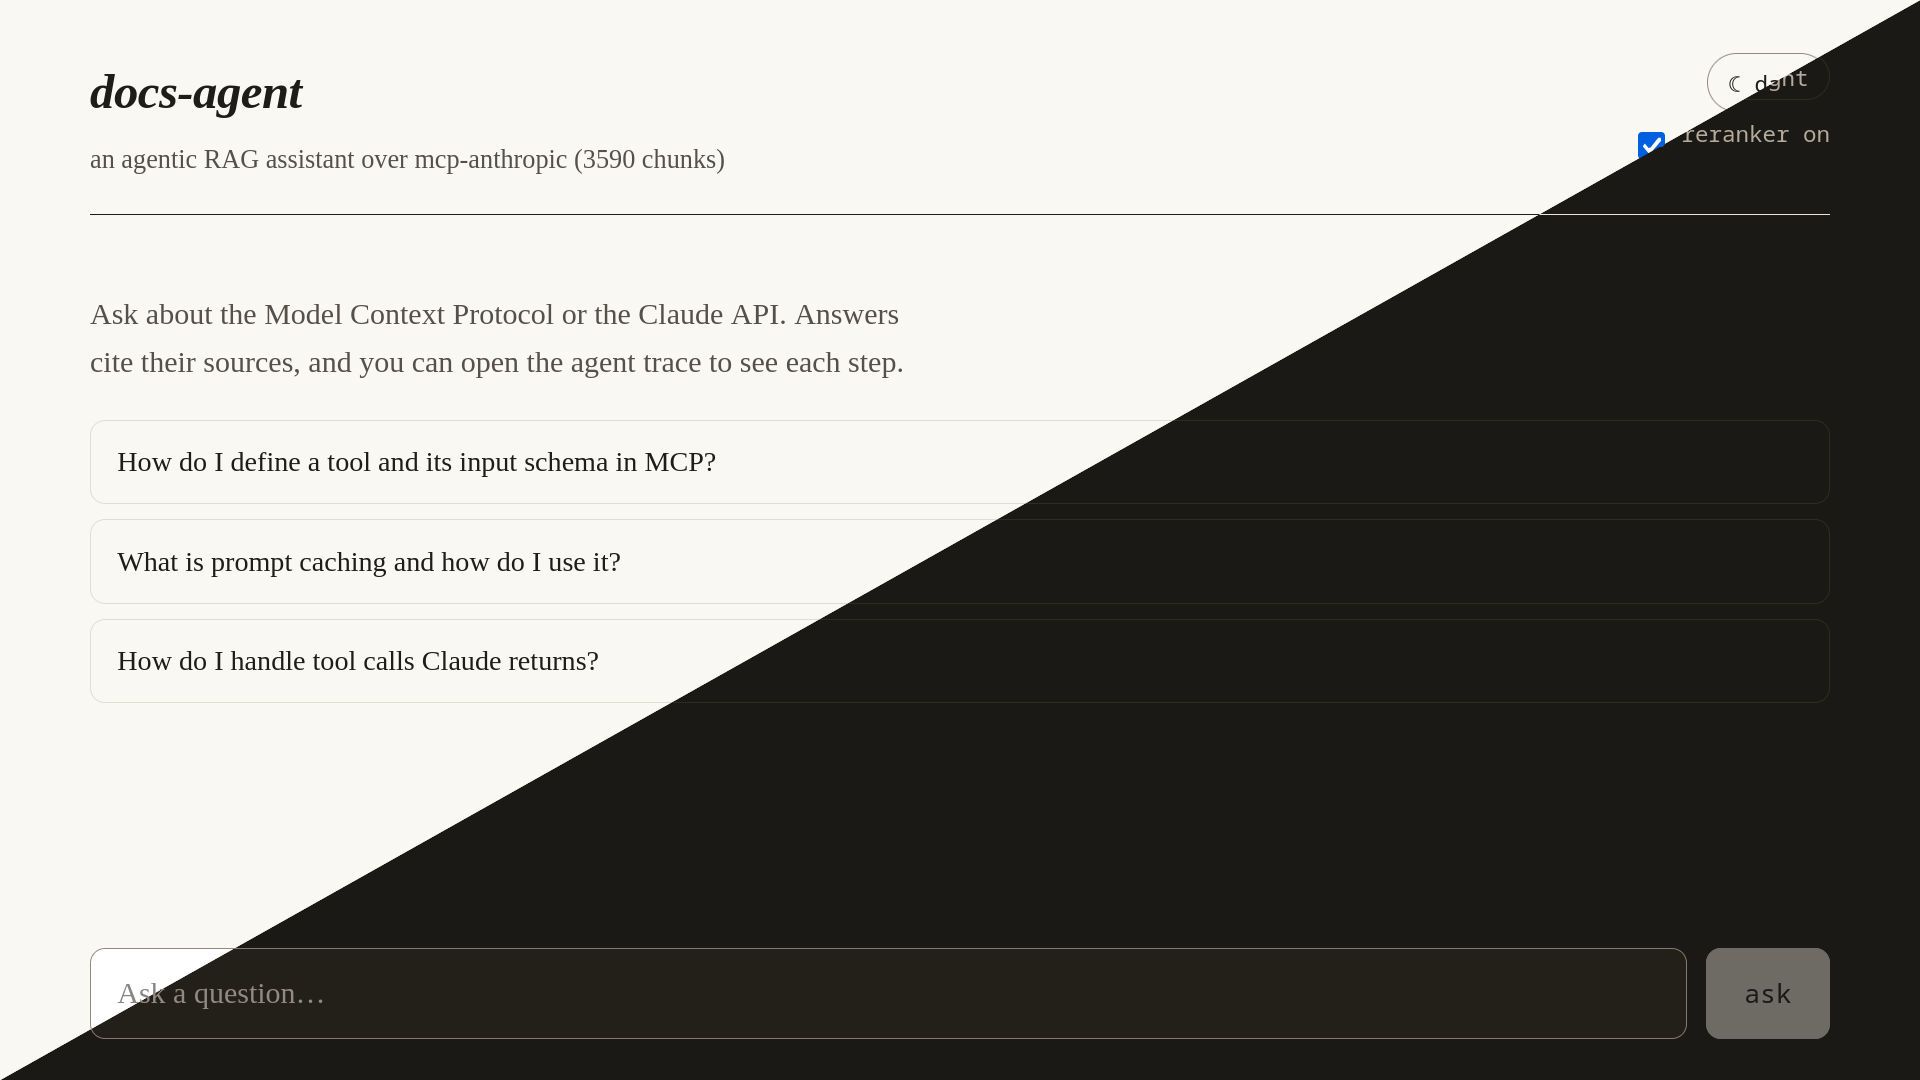
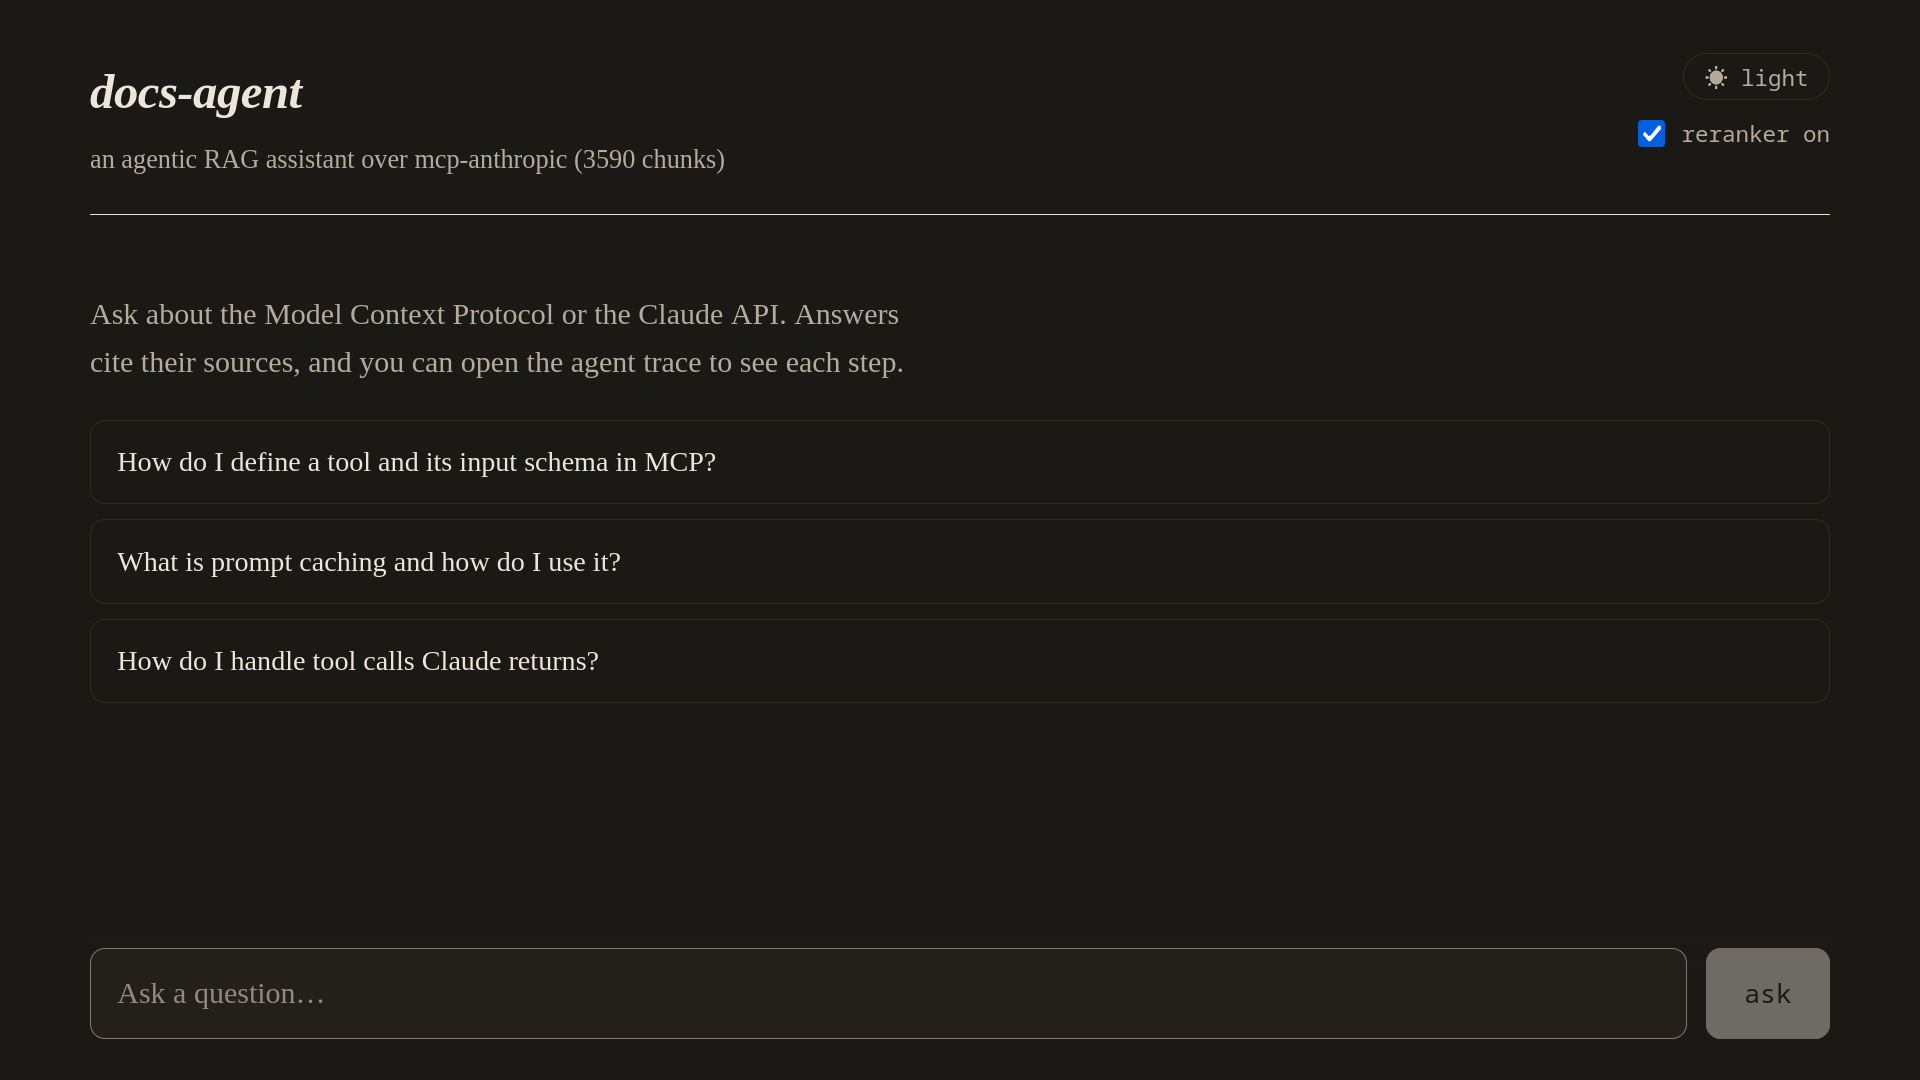
readme: plain dark screenshot, drop the diagonal split

diff --git a/README.md b/README.md
@@ -16,7 +16,7 @@ the agent did at each step.
 
 [**Live demo**](https://docs-agent-wine.vercel.app)
 
-<img src="docs/screenshot.png" alt="docs-agent home view with example questions, sliced diagonally to show both light and dark themes in a single screenshot" width="720">
+<img src="docs/screenshot.png" alt="docs-agent home view with three example questions" width="720">
 
 </div>
 
